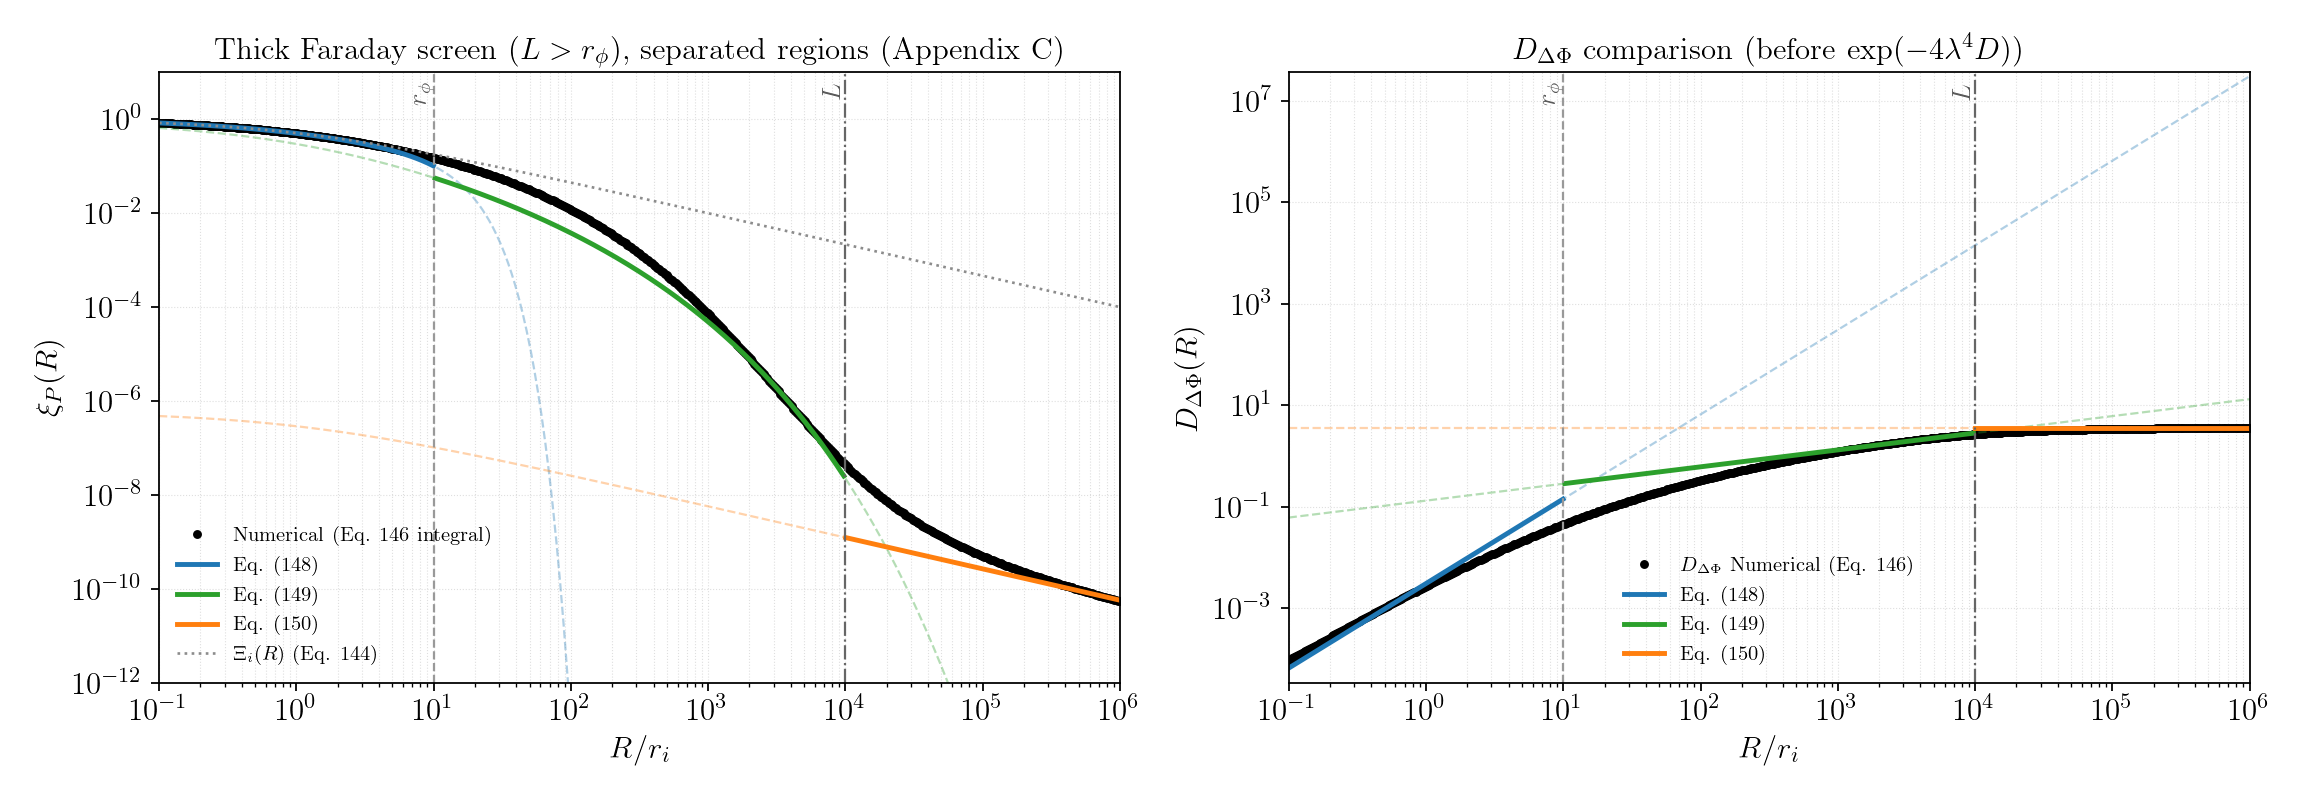
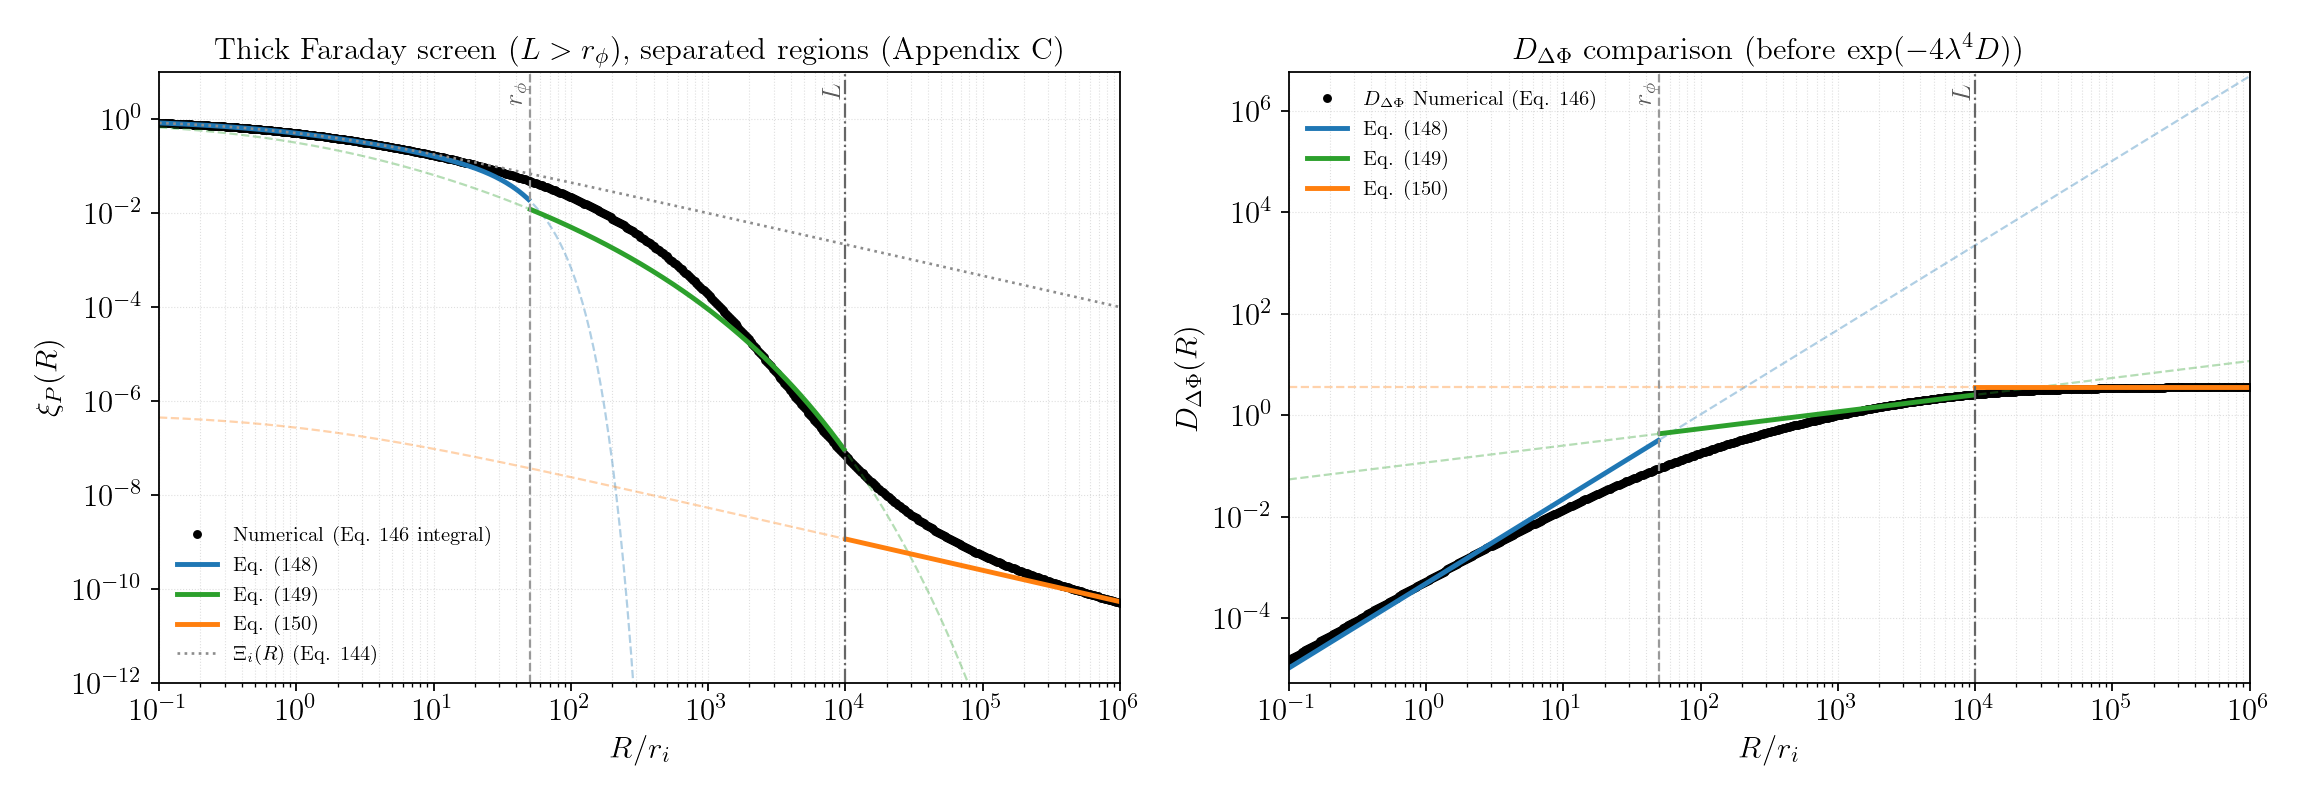
Adjusted thick screen parameters

diff --git a/LP_16 reproduction/Figure4(separated).py b/LP_16 reproduction/Figure4(separated).py
@@ -225,10 +225,10 @@ def main():
 
     params_thick = dict(base)
     params_thick.update(
-        r_phi=10.0,
+        r_phi=50.0,
         L=10000.0,
         lam=1.0,
-        sigma_phi2=0.000001,
+        sigma_phi2=0.0000004,
     )
 
     params_thin = dict(base)
